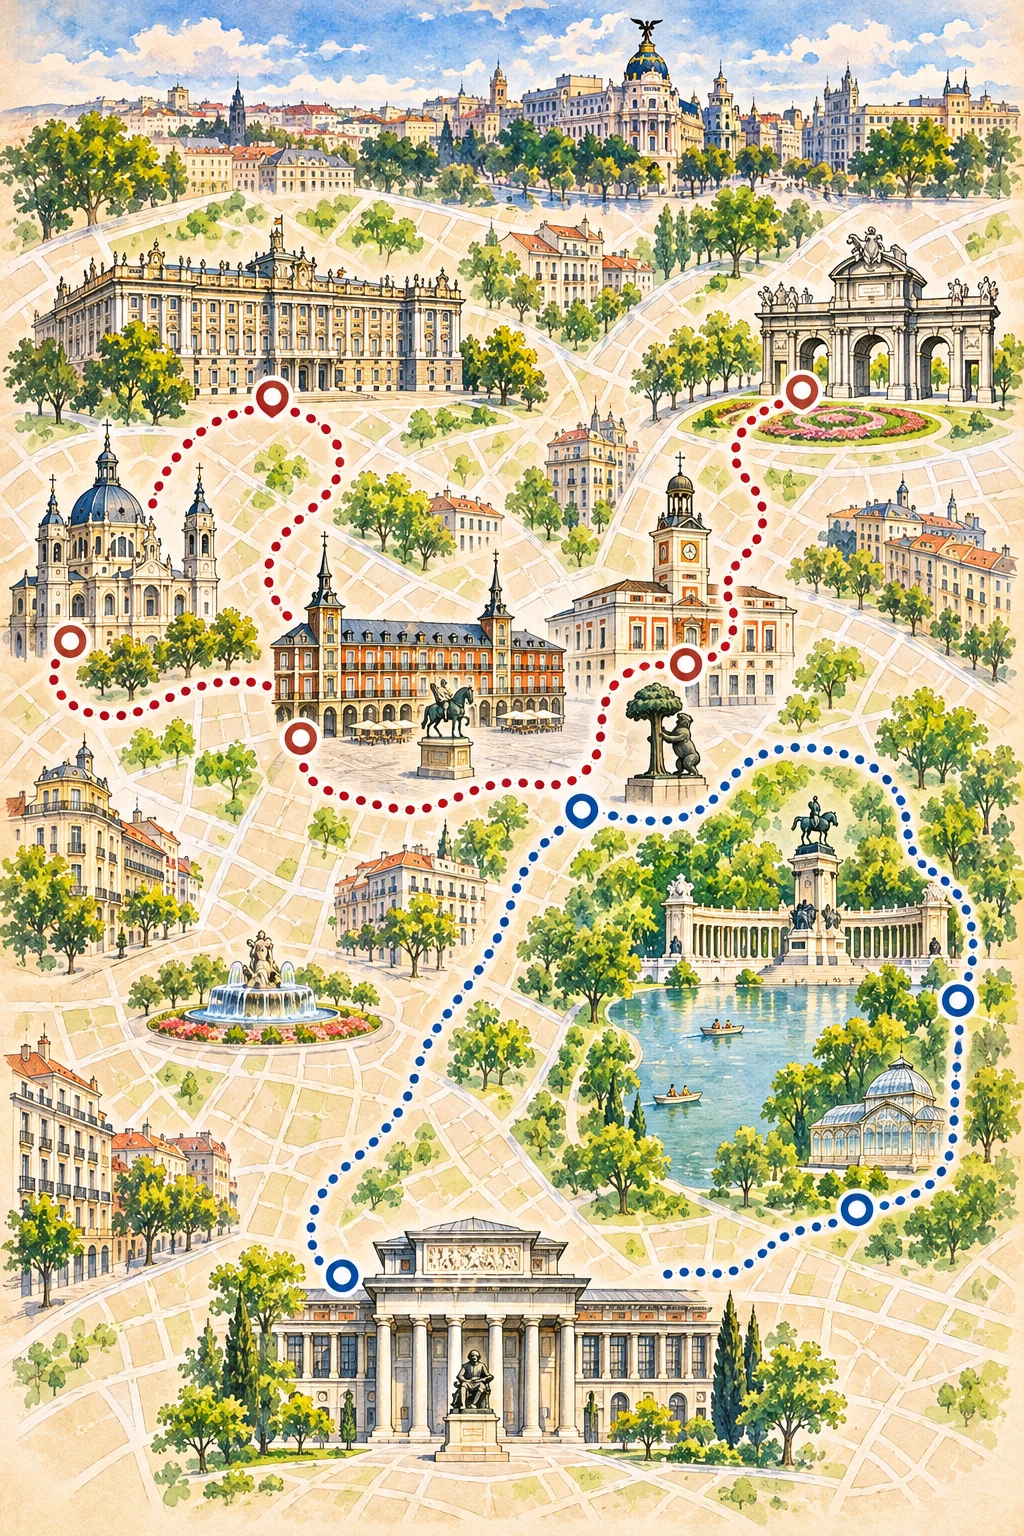
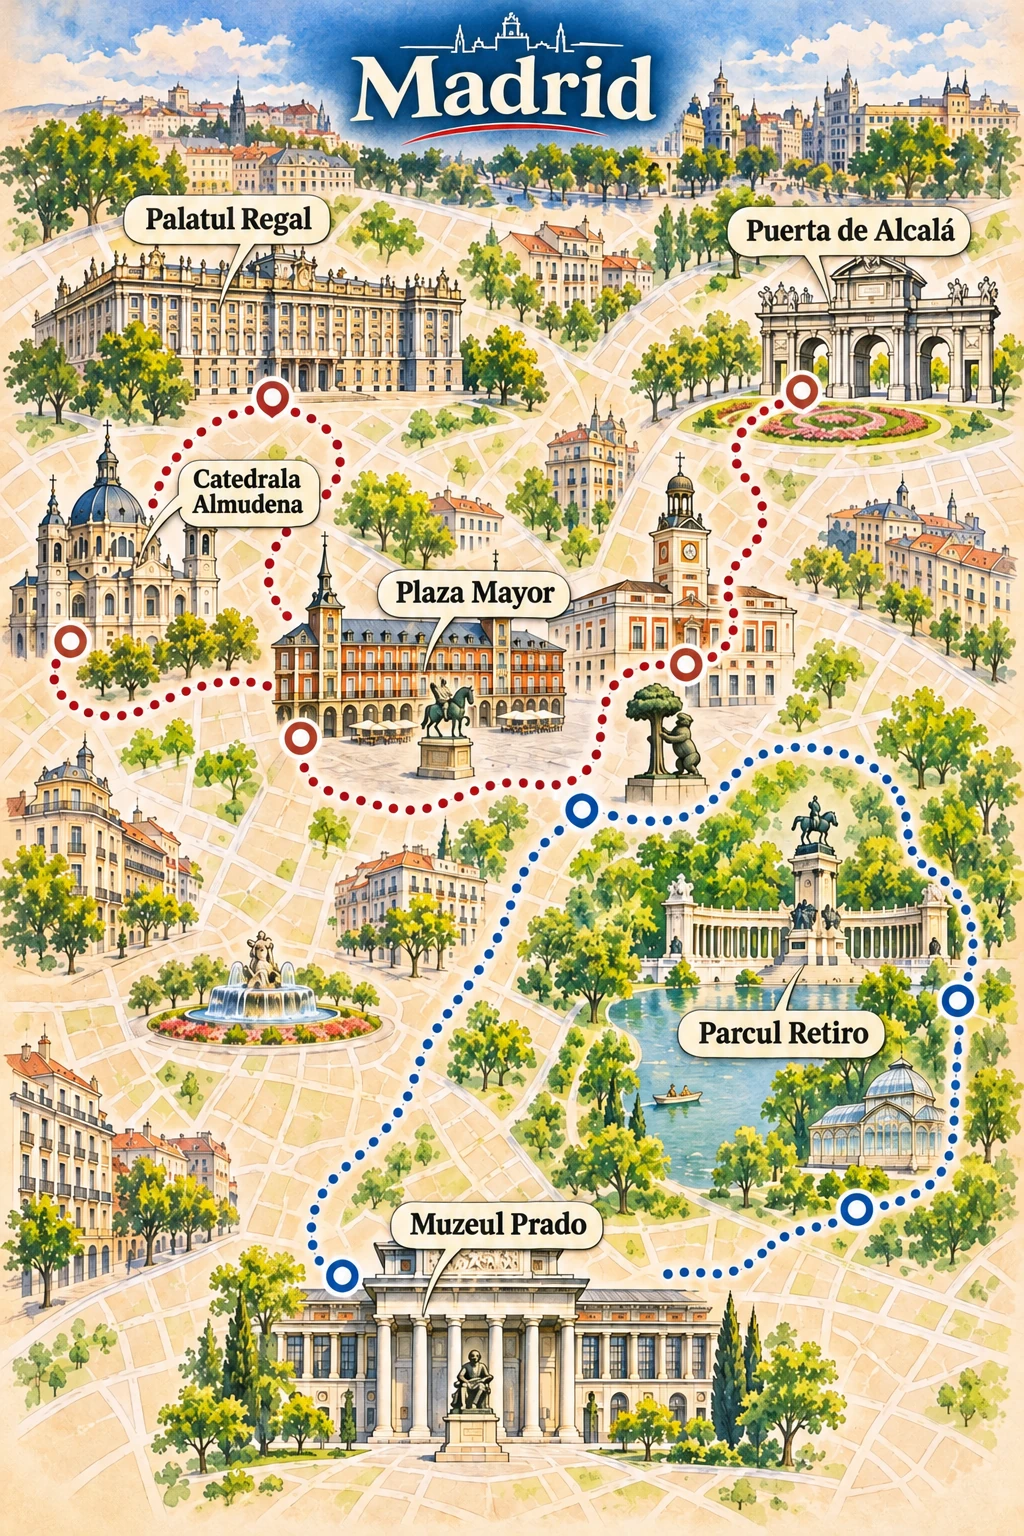
Label Milan and Madrid travel maps

Changed region(s): [[0.0, 0.0, 1.0, 1.0], [0.9062, 0.875, 0.9688, 0.9375]]

diff --git a/ILUSTRATII.md b/ILUSTRATII.md
@@ -16,9 +16,11 @@ Se adaugă numele obiectivelor direct pe hărțile existente, în stilul aprobat
 - Veneția
 - Amsterdam
 - Viena
+- Milano
+- Madrid
 
 Harta originală pentru Praga avea deja etichete. Celelalte orașe din `assets/guides-prague-style/` necesită în continuare verificare și prelucrare. Actualizează această listă în același commit cu fiecare lot nou.
 
-Ilustrațiile fără etichete sunt păstrate în istoricul Git: pentru Roma și Barcelona folosește fișierul de la commitul `14f016a`, iar pentru Paris, Londra, Lisabona, Berlin și Bruxelles de la `508e691`. Pentru Budapesta, Atena, Veneția, Amsterdam și Viena se pot folosi originalele de la `48efdd5`. Copii locale sunt în `/workspace/guide-batch/original-illustrations` când acel director este disponibil. Păstrează imaginile originale pentru quiz.
+Ilustrațiile fără etichete sunt păstrate în istoricul Git: pentru Roma și Barcelona folosește fișierul de la commitul `14f016a`, iar pentru Paris, Londra, Lisabona, Berlin și Bruxelles de la `508e691`. Pentru Budapesta, Atena, Veneția, Amsterdam, Viena, Milano și Madrid se pot folosi originalele de la `48efdd5`. Copii locale sunt în `/workspace/guide-batch/original-illustrations` când acel director este disponibil. Păstrează imaginile originale pentru quiz.
 
 Nu modifica funcționalitatea de căutare a zborurilor în cadrul acestei activități.
